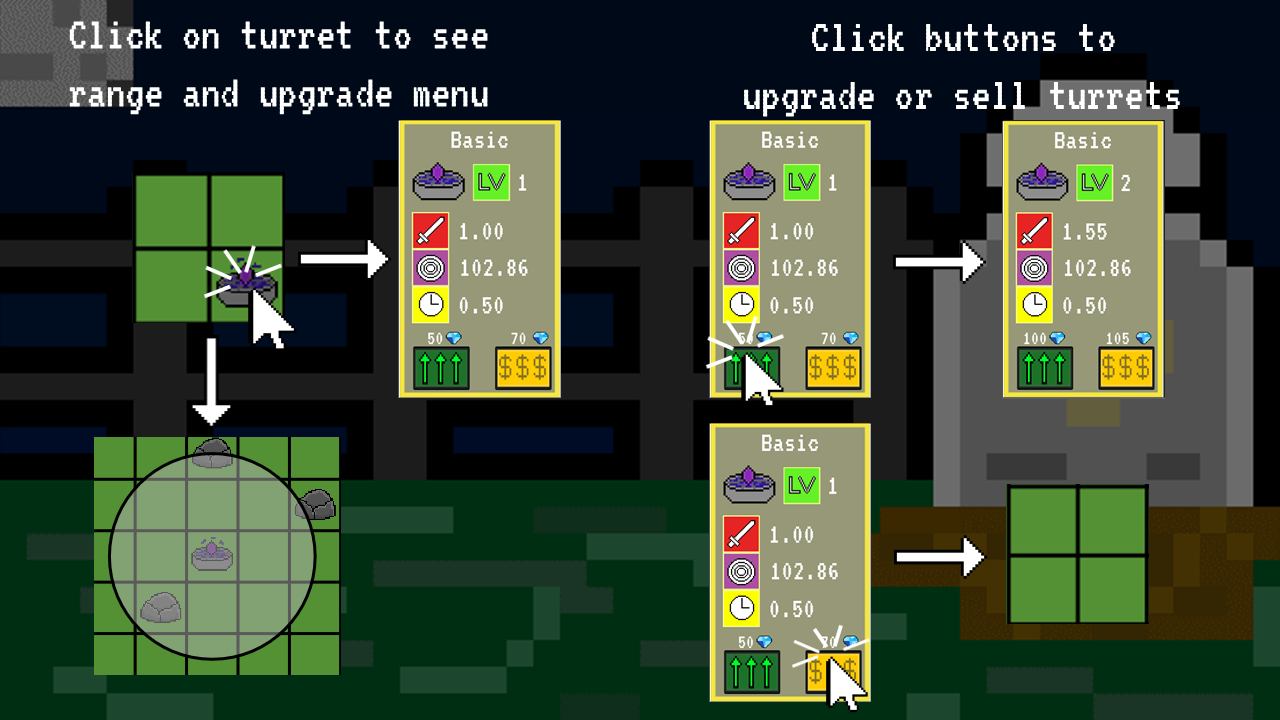
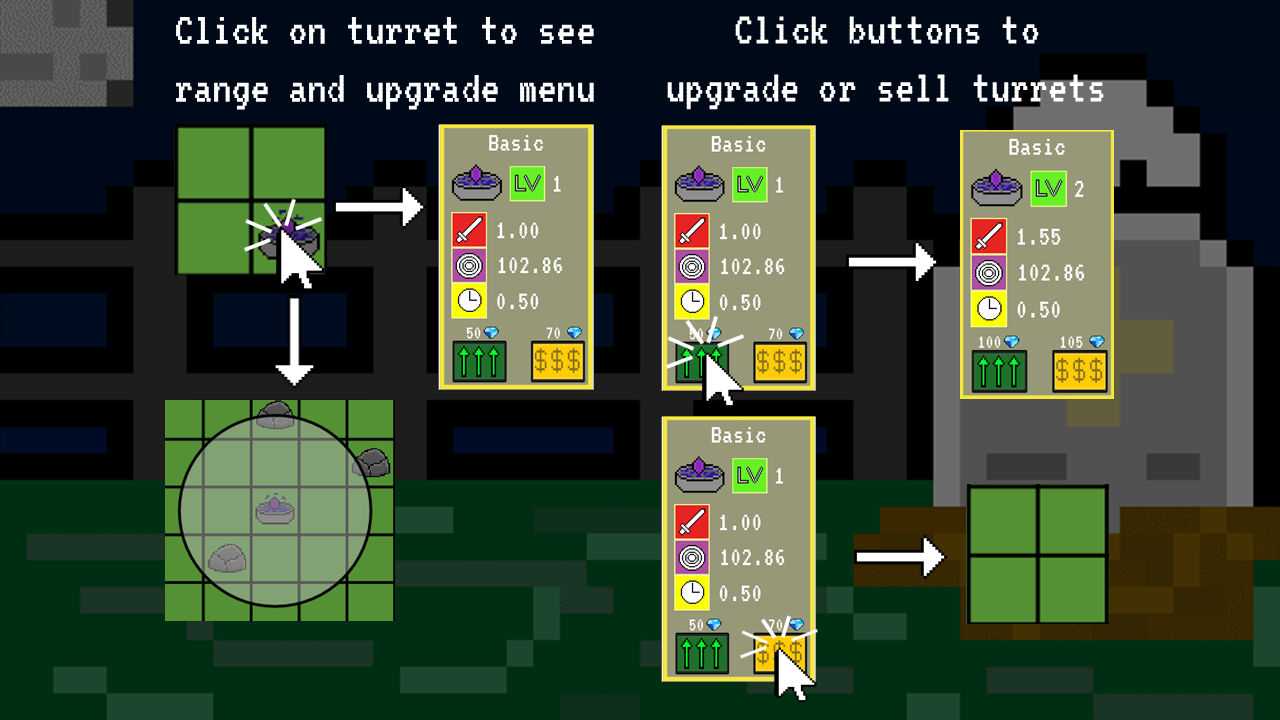
Tutorial Changes part 1

diff --git a/ZhengWei.c b/ZhengWei.c
@@ -552,38 +552,81 @@ void RenderTurretDetailsDisplay(void) {
 	case kTurretButtonBasic:
 		CP_Settings_RectMode(CP_POSITION_CORNER);
 		CP_Settings_Fill(COLOR_WHITE);
-		CP_Graphics_DrawRect(game_menu_object[kTurretDetailsDisplay].x_origin, game_menu_object[kTurretDetailsDisplay].y_origin, game_menu_object[kTurretDetailsDisplay].width, game_menu_object[kTurretDetailsDisplay].height);
+		CP_Graphics_DrawRect(game_menu_object[kTurretDetailsDisplay].x_origin, game_menu_object[kTurretDetailsDisplay].y_origin, game_menu_object[kTurretDetailsDisplay].width * 1.25f, game_menu_object[kTurretDetailsDisplay].height);
 		CP_Settings_Fill(COLOR_BLACK);
 		CP_Settings_TextSize(20.0f * scaling_factor);
-		CP_Font_DrawText("Basic Turret", game_menu_object[kTurretDetailsDisplay].x_origin + game_menu_object[kTurretDetailsDisplay].width / 2, (game_menu_object[kTurretDetailsDisplay].y_origin + game_menu_object[kTurretDetailsDisplay].height / 3));
-		CP_Font_DrawText("Single Target Damage", game_menu_object[kTurretDetailsDisplay].x_origin + game_menu_object[kTurretDetailsDisplay].width / 2, (game_menu_object[kTurretDetailsDisplay].y_origin + game_menu_object[kTurretDetailsDisplay].height * 2 / 3));
+		if (power_up_menu == kFalse)
+		{
+			CP_Font_DrawText("Basic Turret", game_menu_object[kTurretDetailsDisplay].x_origin + game_menu_object[kTurretDetailsDisplay].width / 1.55f, (game_menu_object[kTurretDetailsDisplay].y_origin + game_menu_object[kTurretDetailsDisplay].height / 3));
+			CP_Font_DrawText("Single Target Damage", game_menu_object[kTurretDetailsDisplay].x_origin + game_menu_object[kTurretDetailsDisplay].width / 1.55f, (game_menu_object[kTurretDetailsDisplay].y_origin + game_menu_object[kTurretDetailsDisplay].height * 2 / 3));
+		}
+
+		else
+		{
+			CP_Font_DrawText("Gem Upgrade", game_menu_object[kTurretDetailsDisplay].x_origin + game_menu_object[kTurretDetailsDisplay].width / 1.57f, (game_menu_object[kTurretDetailsDisplay].y_origin + game_menu_object[kTurretDetailsDisplay].height / 3));
+			CP_Font_DrawText("More Phantom Quartz Earned", game_menu_object[kTurretDetailsDisplay].x_origin + game_menu_object[kTurretDetailsDisplay].width / 1.57f, (game_menu_object[kTurretDetailsDisplay].y_origin + game_menu_object[kTurretDetailsDisplay].height * 2 / 3));
+		}
+
 		break;
 	case kTurretButtonSlow:
 		CP_Settings_RectMode(CP_POSITION_CORNER);
 		CP_Settings_Fill(COLOR_WHITE);
-		CP_Graphics_DrawRect(game_menu_object[kTurretDetailsDisplay].x_origin, game_menu_object[kTurretDetailsDisplay].y_origin, game_menu_object[kTurretDetailsDisplay].width, game_menu_object[kTurretDetailsDisplay].height);
+		CP_Graphics_DrawRect(game_menu_object[kTurretDetailsDisplay].x_origin, game_menu_object[kTurretDetailsDisplay].y_origin, game_menu_object[kTurretDetailsDisplay].width * 1.15f, game_menu_object[kTurretDetailsDisplay].height);
 		CP_Settings_Fill(COLOR_BLACK);
 		CP_Settings_TextSize(20.0f * scaling_factor);
-		CP_Font_DrawText("Slow Turret", game_menu_object[kTurretDetailsDisplay].x_origin + game_menu_object[kTurretDetailsDisplay].width / 2, (game_menu_object[kTurretDetailsDisplay].y_origin + game_menu_object[kTurretDetailsDisplay].height / 3));
-		CP_Font_DrawText("Slow Enemies", game_menu_object[kTurretDetailsDisplay].x_origin + game_menu_object[kTurretDetailsDisplay].width / 2, (game_menu_object[kTurretDetailsDisplay].y_origin + game_menu_object[kTurretDetailsDisplay].height * 2 / 3));
+		if (power_up_menu == kFalse)
+		{
+			CP_Font_DrawText("Slow Turret", game_menu_object[kTurretDetailsDisplay].x_origin + game_menu_object[kTurretDetailsDisplay].width / 1.75f, (game_menu_object[kTurretDetailsDisplay].y_origin + game_menu_object[kTurretDetailsDisplay].height / 3));
+			CP_Font_DrawText("Slow Enemies", game_menu_object[kTurretDetailsDisplay].x_origin + game_menu_object[kTurretDetailsDisplay].width / 1.75f, (game_menu_object[kTurretDetailsDisplay].y_origin + game_menu_object[kTurretDetailsDisplay].height * 2 / 3));
+		}
+
+		else
+		{
+			CP_Font_DrawText("Speed Upgrade", game_menu_object[kTurretDetailsDisplay].x_origin + game_menu_object[kTurretDetailsDisplay].width / 1.75f, (game_menu_object[kTurretDetailsDisplay].y_origin + game_menu_object[kTurretDetailsDisplay].height / 3));
+			CP_Font_DrawText("All ghosts move slower", game_menu_object[kTurretDetailsDisplay].x_origin + game_menu_object[kTurretDetailsDisplay].width / 1.75f, (game_menu_object[kTurretDetailsDisplay].y_origin + game_menu_object[kTurretDetailsDisplay].height * 2 / 3));
+		}
+
+		
 		break;
 	case kTurretButtonHoming:
 		CP_Settings_RectMode(CP_POSITION_CORNER);
 		CP_Settings_Fill(COLOR_WHITE);
-		CP_Graphics_DrawRect(game_menu_object[kTurretDetailsDisplay].x_origin, game_menu_object[kTurretDetailsDisplay].y_origin, game_menu_object[kTurretDetailsDisplay].width, game_menu_object[kTurretDetailsDisplay].height);
+		CP_Graphics_DrawRect(game_menu_object[kTurretDetailsDisplay].x_origin, game_menu_object[kTurretDetailsDisplay].y_origin, game_menu_object[kTurretDetailsDisplay].width * 1.15f, game_menu_object[kTurretDetailsDisplay].height);
 		CP_Settings_Fill(COLOR_BLACK);
 		CP_Settings_TextSize(20.0f * scaling_factor);
-		CP_Font_DrawText("Homing Turret", game_menu_object[kTurretDetailsDisplay].x_origin + game_menu_object[kTurretDetailsDisplay].width / 2, (game_menu_object[kTurretDetailsDisplay].y_origin + game_menu_object[kTurretDetailsDisplay].height / 3));
-		CP_Font_DrawText("Splash Damage", game_menu_object[kTurretDetailsDisplay].x_origin + game_menu_object[kTurretDetailsDisplay].width / 2, (game_menu_object[kTurretDetailsDisplay].y_origin + game_menu_object[kTurretDetailsDisplay].height * 2 / 3));
+		if (power_up_menu == kFalse)
+		{
+			CP_Font_DrawText("Homing Turret", game_menu_object[kTurretDetailsDisplay].x_origin + game_menu_object[kTurretDetailsDisplay].width / 1.75f, (game_menu_object[kTurretDetailsDisplay].y_origin + game_menu_object[kTurretDetailsDisplay].height / 3));
+			CP_Font_DrawText("Splash Damage", game_menu_object[kTurretDetailsDisplay].x_origin + game_menu_object[kTurretDetailsDisplay].width / 1.75f, (game_menu_object[kTurretDetailsDisplay].y_origin + game_menu_object[kTurretDetailsDisplay].height * 2 / 3));
+		}
+
+		else
+		{
+			CP_Font_DrawText("Health Upgrade", game_menu_object[kTurretDetailsDisplay].x_origin + game_menu_object[kTurretDetailsDisplay].width / 1.75f, (game_menu_object[kTurretDetailsDisplay].y_origin + game_menu_object[kTurretDetailsDisplay].height / 3));
+			CP_Font_DrawText("All ghosts have less HP", game_menu_object[kTurretDetailsDisplay].x_origin + game_menu_object[kTurretDetailsDisplay].width / 1.75f, (game_menu_object[kTurretDetailsDisplay].y_origin + game_menu_object[kTurretDetailsDisplay].height * 2 / 3));
+		}
+
+		
 		break;
 	case kTurretButtonMine:
 		CP_Settings_RectMode(CP_POSITION_CORNER);
 		CP_Settings_Fill(COLOR_WHITE);
-		CP_Graphics_DrawRect(game_menu_object[kTurretDetailsDisplay].x_origin, game_menu_object[kTurretDetailsDisplay].y_origin, game_menu_object[kTurretDetailsDisplay].width, game_menu_object[kTurretDetailsDisplay].height);
+		CP_Graphics_DrawRect(game_menu_object[kTurretDetailsDisplay].x_origin, game_menu_object[kTurretDetailsDisplay].y_origin, game_menu_object[kTurretDetailsDisplay].width * 1.15f, game_menu_object[kTurretDetailsDisplay].height);
 		CP_Settings_Fill(COLOR_BLACK);
 		CP_Settings_TextSize(20.0f * scaling_factor);
-		CP_Font_DrawText("Mine", game_menu_object[kTurretDetailsDisplay].x_origin + game_menu_object[kTurretDetailsDisplay].width / 2, (game_menu_object[kTurretDetailsDisplay].y_origin + game_menu_object[kTurretDetailsDisplay].height / 3));
-		CP_Font_DrawText("Single Use", game_menu_object[kTurretDetailsDisplay].x_origin + game_menu_object[kTurretDetailsDisplay].width / 2, (game_menu_object[kTurretDetailsDisplay].y_origin + game_menu_object[kTurretDetailsDisplay].height * 2 / 3));
+		if (power_up_menu == kFalse)
+		{
+			CP_Font_DrawText("Mine", game_menu_object[kTurretDetailsDisplay].x_origin + game_menu_object[kTurretDetailsDisplay].width / 1.75f, (game_menu_object[kTurretDetailsDisplay].y_origin + game_menu_object[kTurretDetailsDisplay].height / 3));
+			CP_Font_DrawText("Single Use", game_menu_object[kTurretDetailsDisplay].x_origin + game_menu_object[kTurretDetailsDisplay].width / 1.75f, (game_menu_object[kTurretDetailsDisplay].y_origin + game_menu_object[kTurretDetailsDisplay].height * 2 / 3));
+		}
+
+		else
+		{
+			CP_Font_DrawText("Mine Upgrade", game_menu_object[kTurretDetailsDisplay].x_origin + game_menu_object[kTurretDetailsDisplay].width / 1.75f, (game_menu_object[kTurretDetailsDisplay].y_origin + game_menu_object[kTurretDetailsDisplay].height / 3));
+			CP_Font_DrawText("Mines deal more damage", game_menu_object[kTurretDetailsDisplay].x_origin + game_menu_object[kTurretDetailsDisplay].width / 1.75f, (game_menu_object[kTurretDetailsDisplay].y_origin + game_menu_object[kTurretDetailsDisplay].height * 2 / 3));
+		}
+
+		
 		break;
 	}
 	mouse_input.x_origin = tempMouseX;
@@ -1567,40 +1610,61 @@ void RenderEnemyPath(LevelData* LevelX) {
 void HowToPlayButtonsInit(void) {
 	TutorialButtons[kHowToPlayBack].x_origin = (float)CP_System_GetWindowWidth() * 4 / 10;
 	TutorialButtons[kHowToPlayBack].y_origin = (float)CP_System_GetWindowHeight() * 9 / 10;
-	TutorialButtons[kHowToPlayBack].width = (float)CP_System_GetWindowWidth() * 3 / 10;
+	TutorialButtons[kHowToPlayBack].width = (float)CP_System_GetWindowWidth() / 10;
 	TutorialButtons[kHowToPlayBack].height = (float)CP_System_GetWindowHeight() / 10;
 
-	TutorialButtons[kHowToPlayPrevious].x_origin = (float)CP_System_GetWindowWidth() * 3 / 10;
-	TutorialButtons[kHowToPlayPrevious].y_origin = (float)CP_System_GetWindowHeight() * 9 / 10;
+	TutorialButtons[kHowToPlayPrevious].x_origin = (float)CP_System_GetWindowWidth()/50;
+	TutorialButtons[kHowToPlayPrevious].y_origin = (float)CP_System_GetWindowHeight() / 50;
 	TutorialButtons[kHowToPlayPrevious].width = (float)CP_System_GetWindowWidth() / 10;
 	TutorialButtons[kHowToPlayPrevious].height = (float)CP_System_GetWindowHeight() / 10;
 
-	TutorialButtons[kHowToPlayNext].x_origin = (float)CP_System_GetWindowWidth() * 7 / 10;
-	TutorialButtons[kHowToPlayNext].y_origin = (float)CP_System_GetWindowHeight() * 9 / 10;
+	TutorialButtons[kHowToPlayNext].x_origin = (float)CP_System_GetWindowWidth()/1.12f;
+	TutorialButtons[kHowToPlayNext].y_origin = (float)CP_System_GetWindowHeight()/50;
 	TutorialButtons[kHowToPlayNext].width = (float)CP_System_GetWindowWidth() / 10;
 	TutorialButtons[kHowToPlayNext].height = (float)CP_System_GetWindowHeight() / 10;
 }
 void RenderHowToPlayPages(void) {
 	CP_Graphics_ClearBackground(COLOR_WHITE);
+	CP_Image_Draw(tutorial_image_array[current_how_to_play_page], CP_System_GetWindowWidth() * 0.5f,
+		CP_System_GetWindowHeight() * 0.5f, 1280 * scaling_factor, 720 * scaling_factor, 255);
 	CP_Settings_RectMode(CP_POSITION_CORNER);
-	CP_Graphics_DrawRect(TutorialButtons[kHowToPlayBack].x_origin,
-		TutorialButtons[kHowToPlayBack].y_origin,
-		TutorialButtons[kHowToPlayBack].width,
-		TutorialButtons[kHowToPlayBack].height);
+	
+
+	
 	if (current_how_to_play_page != 0) {
 		CP_Graphics_DrawRect(TutorialButtons[kHowToPlayPrevious].x_origin,
 			TutorialButtons[kHowToPlayPrevious].y_origin,
 			TutorialButtons[kHowToPlayPrevious].width,
 			TutorialButtons[kHowToPlayPrevious].height);
+		RenderImageFromSpriteSheet(interactable_UI_buttons_spritesheet, interactable_UI_buttons_spritesheet_array[4],
+			TutorialButtons[kHowToPlayPrevious].x_origin + TutorialButtons[kHowToPlayPrevious].width / 2,
+			TutorialButtons[kHowToPlayPrevious].y_origin + TutorialButtons[kHowToPlayPrevious].height / 2,
+			TutorialButtons[kHowToPlayPrevious].width,
+			TutorialButtons[kHowToPlayPrevious].height);
+		
+	}
+
+	else
+	{
+		CP_Graphics_DrawRect(TutorialButtons[kHowToPlayBack].x_origin,
+			TutorialButtons[kHowToPlayBack].y_origin,
+			TutorialButtons[kHowToPlayBack].width,
+			TutorialButtons[kHowToPlayBack].height);
 	}
 	if (current_how_to_play_page != kMaxHowToPlayPages - 1) {
 		CP_Graphics_DrawRect(TutorialButtons[kHowToPlayNext].x_origin,
 			TutorialButtons[kHowToPlayNext].y_origin,
 			TutorialButtons[kHowToPlayNext].width,
 			TutorialButtons[kHowToPlayNext].height);
+		RenderImageFromSpriteSheet(interactable_UI_buttons_spritesheet, interactable_UI_buttons_spritesheet_array[3],
+			TutorialButtons[kHowToPlayNext].x_origin + TutorialButtons[kHowToPlayNext].width/2,
+			TutorialButtons[kHowToPlayNext].y_origin + TutorialButtons[kHowToPlayNext].height/ 2,
+			TutorialButtons[kHowToPlayNext].width,
+			TutorialButtons[kHowToPlayNext].height);
+		
 	}
-
-	switch (current_how_to_play_page) {
+	
+	/*switch (current_how_to_play_page) {
 	case 0:
 		CP_Graphics_DrawCircle(100, 100, 100);
 		break;
@@ -1613,7 +1677,7 @@ void RenderHowToPlayPages(void) {
 	case 3:
 		CP_Graphics_DrawCircle(400, 400, 400);
 		break;
-	}
+	}*/
 
 	if (BtnIsPressed(TutorialButtons[kHowToPlayBack])) {
 		current_game_state = kMainMenu;

diff --git a/Gabriel.c b/Gabriel.c
@@ -11,6 +11,13 @@ void InitAllImages(void)
 	slow_turret_image_array[4] = CP_Image_Load("./Assets/SlowTurret4.png");
 	slow_turret_image_array[5] = CP_Image_Load("./Assets/SlowTurret5.png");
 
+	tutorial_image_array[0] = CP_Image_Load("./Assets/Slide1.png");
+	tutorial_image_array[1] = CP_Image_Load("./Assets/Slide2.png");
+	tutorial_image_array[2] = CP_Image_Load("./Assets/Slide3.png");
+	tutorial_image_array[3] = CP_Image_Load("./Assets/Slide4.png");
+	tutorial_image_array[4] = CP_Image_Load("./Assets/Slide5.png");
+	tutorial_image_array[5] = CP_Image_Load("./Assets/Slide6.png");
+	tutorial_image_array[6] = CP_Image_Load("./Assets/Slide7.png");
 
 	pause_button_image = CP_Image_Load("./Assets/Pause.png");
 	game_title_image = CP_Image_Load("./Assets/Title.png");

diff --git a/Gabriel.h b/Gabriel.h
@@ -31,6 +31,7 @@ struct PortalVariables
 };
 
 CP_Image slow_turret_image_array[6];
+CP_Image tutorial_image_array[7];
 
 CP_Image pause_button_image;
 CP_Image game_title_image;
@@ -80,7 +81,7 @@ struct SpriteSheetImage portal_spawn_effect_spritesheet_array[4];
 struct SpriteSheetImage power_up_spritesheet_array[4];
 struct SpriteSheetImage battlefield_effect_spritesheet_array[12];
 struct SpriteSheetImage fat_UI_background_spritesheet_array[2];
-struct SpriteSheetImage interactable_UI_buttons_spritesheet_array[3];
+struct SpriteSheetImage interactable_UI_buttons_spritesheet_array[5];
 struct SpriteSheetImage turret_stats_spritesheet_array[5];
 struct SpriteSheetImage non_grid_environment_objects_spritesheet_array[9];
 

diff --git a/ZhengWei.h b/ZhengWei.h
@@ -21,7 +21,7 @@ enum {
 	kLevel5Cols = 8,
 	kLevel5Rows = 7,
 	kMaxEnvironmentObject = 10,
-	kMaxHowToPlayPages = 10
+	kMaxHowToPlayPages = 7
 };//Using enum instead of define for const int
 enum {
 	kHowToPlayBack,
